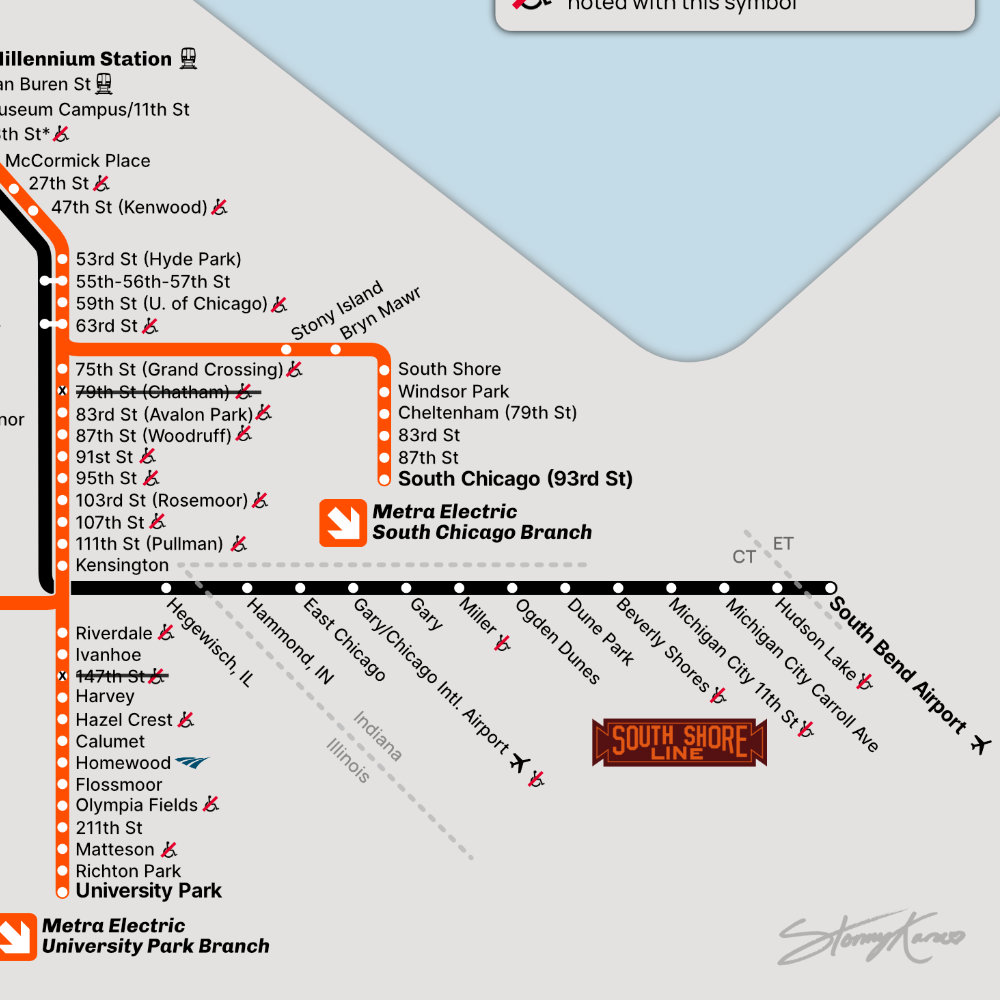
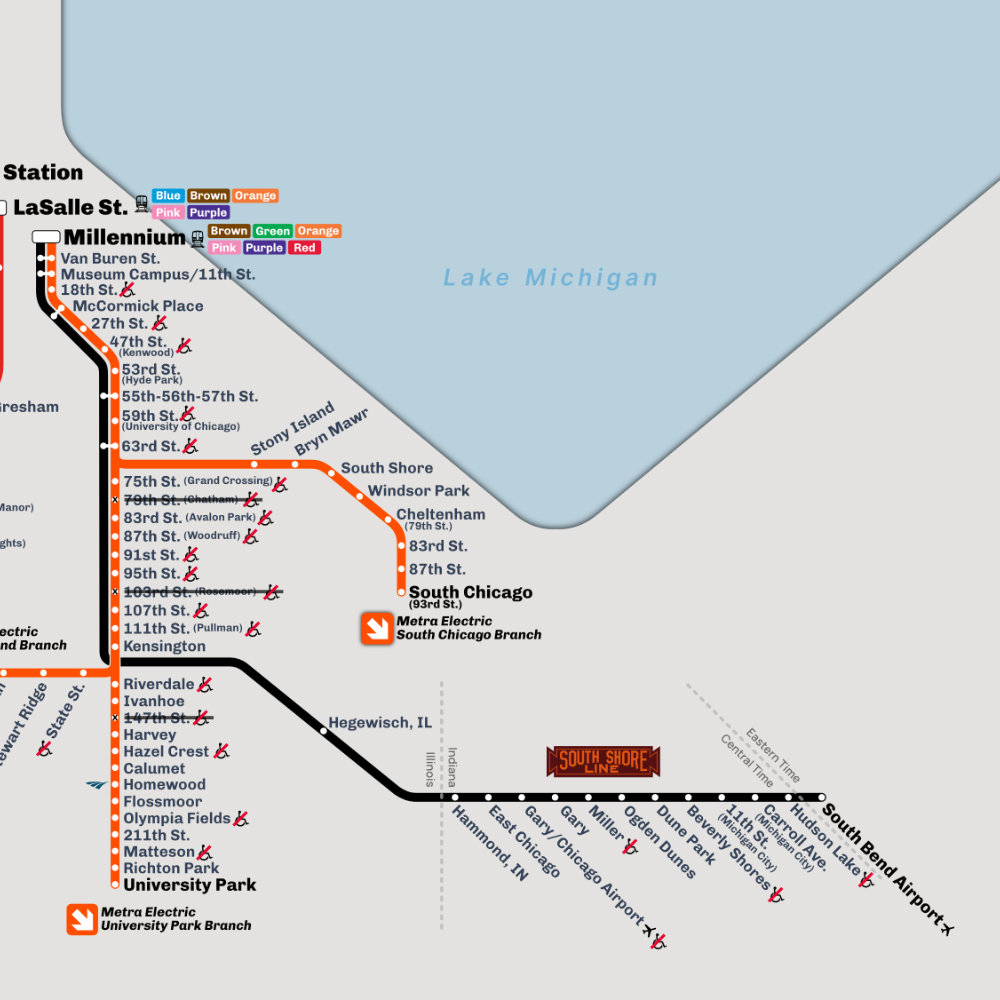
Updated Metra Map on Portfolio page

diff --git a/designs/metra_map.html b/designs/metra_map.html
@@ -113,13 +113,13 @@
         
         <div class="row">
             <div class="col-md-6 px-5 align-self-center text-end d-none d-md-block" style="line-height:1.2">
-                <p style="font-size:15px;font-family: Montserrat;color: #CDCDCD;">I used the empty space over Lake Michigan to show L, intercity bus, and Amtrak connection info for the stations. Separating it out allowed me to provide more detail on each connection. Icons next to the station names highlight that there is a connection.</p>
+                <p style="font-size:15px;font-family: Montserrat;color: #CDCDCD;">I used the space next to the station names to show L, intercity bus, and Amtrak connection info for the stations.</p>
             </div>
             <div id="dnshowcase" class="text-center col-md-6">
                 <img src="assets/metra_map/map_connections.jpg" alt="Metra System Map">
             </div>
             <div class="col-md-6 px-5 py-4 align-self-center d-block d-md-none" style="line-height:1.2">
-                <p style="font-size:15px;font-family: Montserrat;color: #CDCDCD;">I used the empty space over Lake Michigan to show L, intercity bus, and Amtrak connection info for the stations. Separating it out allowed me to provide more detail on each connection. Icons next to the station names highlight that there is a connection.</p>
+                <p style="font-size:15px;font-family: Montserrat;color: #CDCDCD;">I used the space next to the station names to show L, intercity bus, and Amtrak connection info for the stations.</p>
             </div>
         </div>
         
